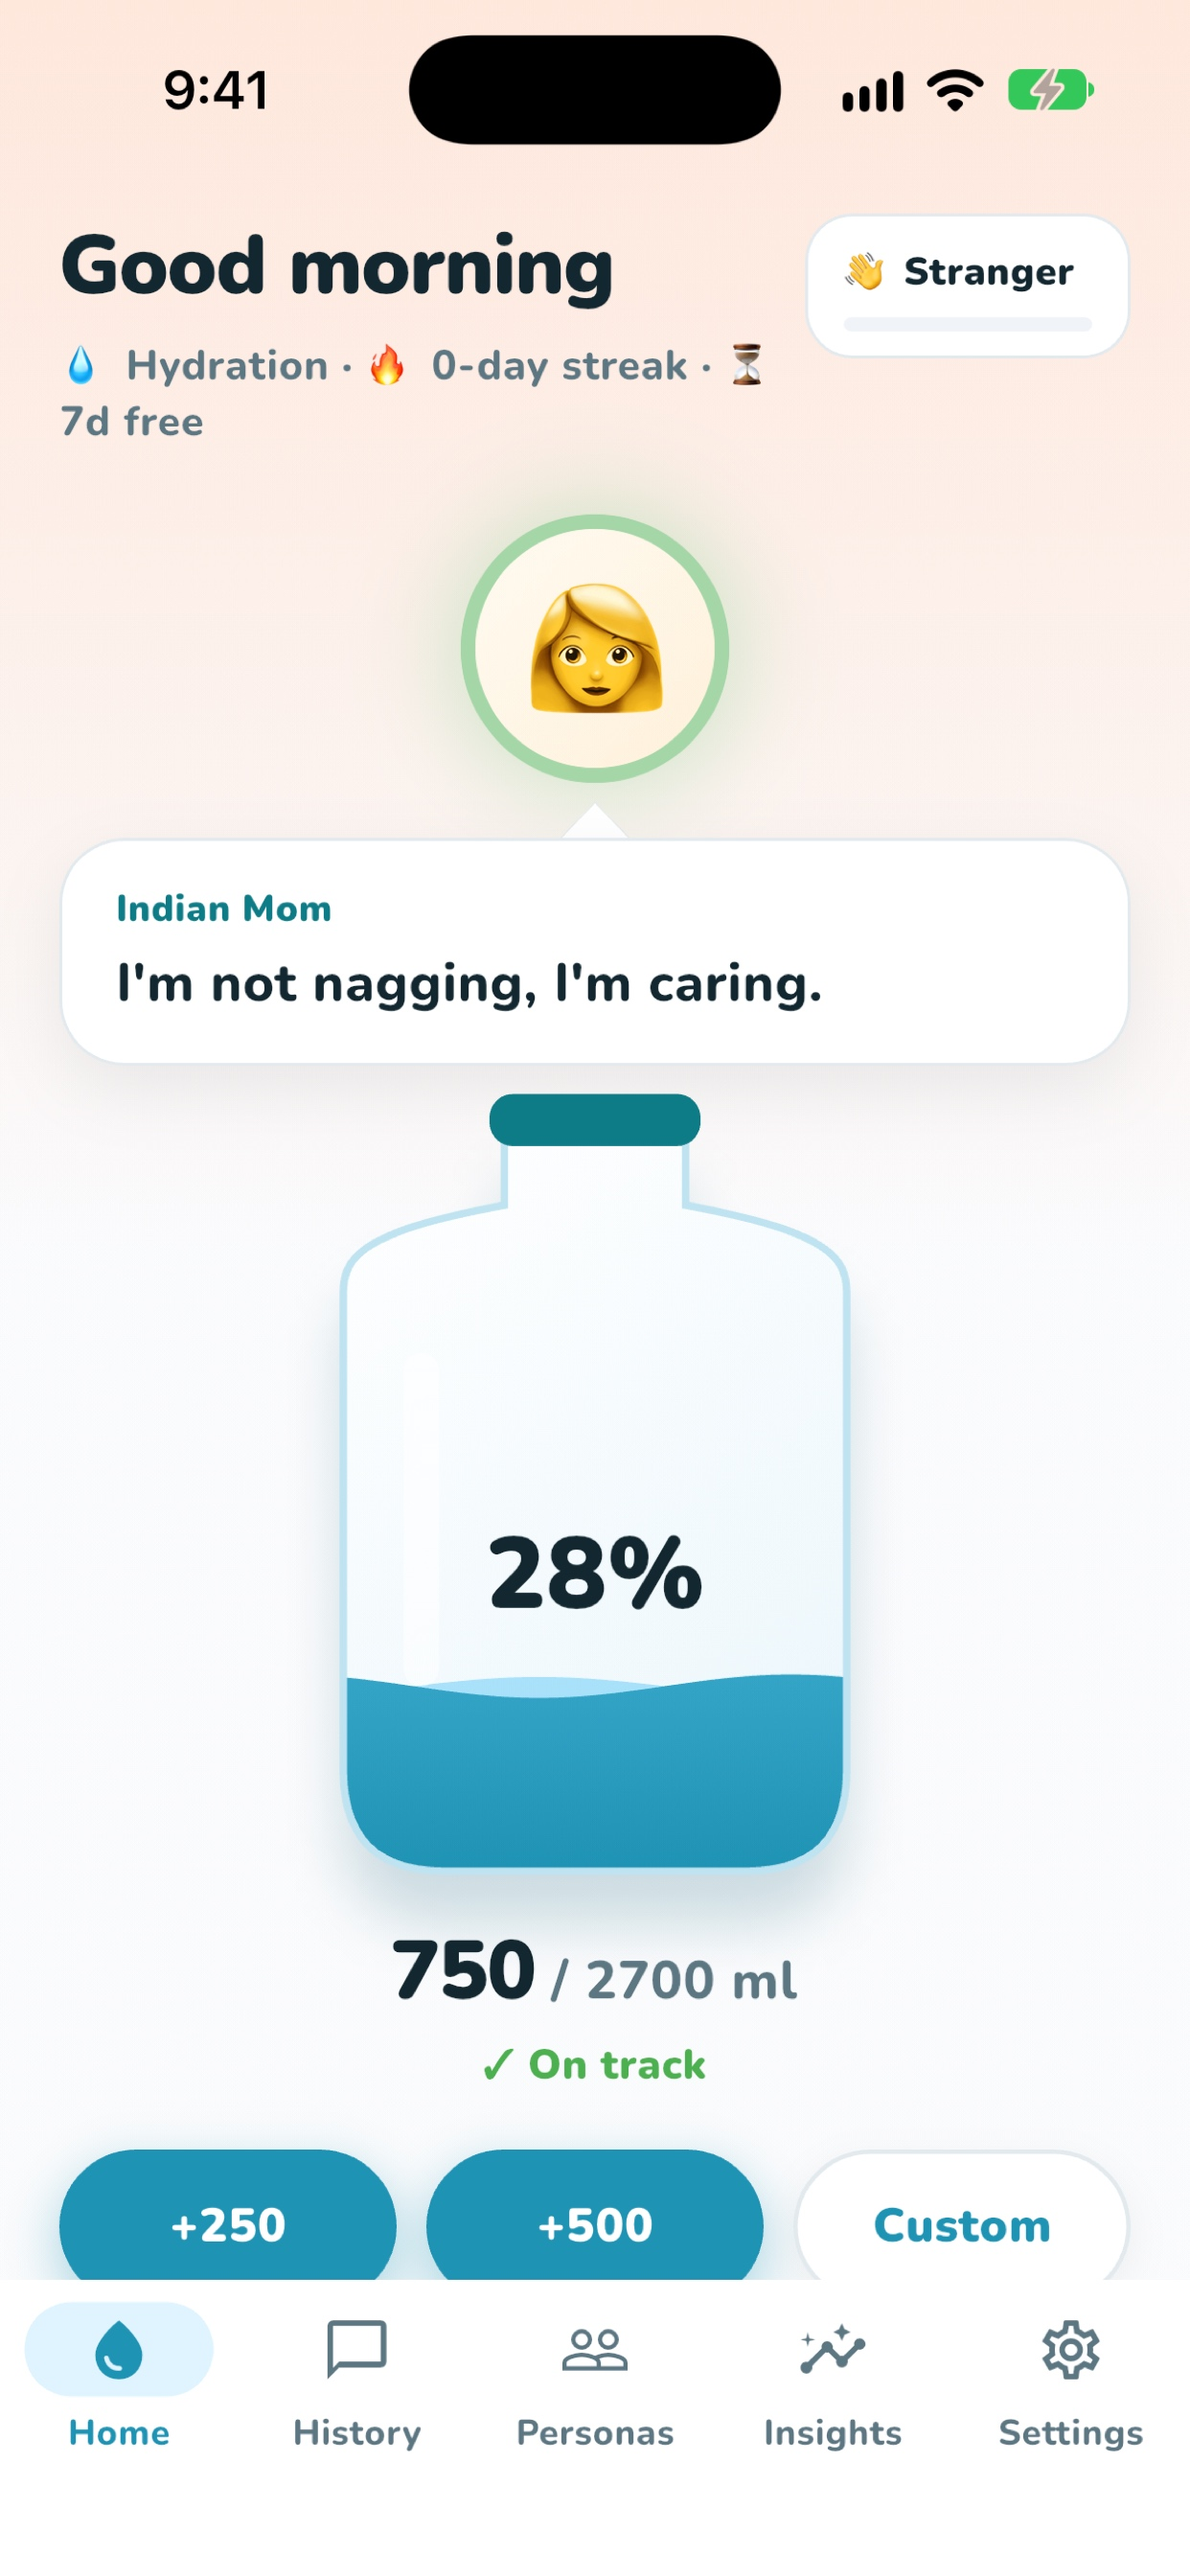
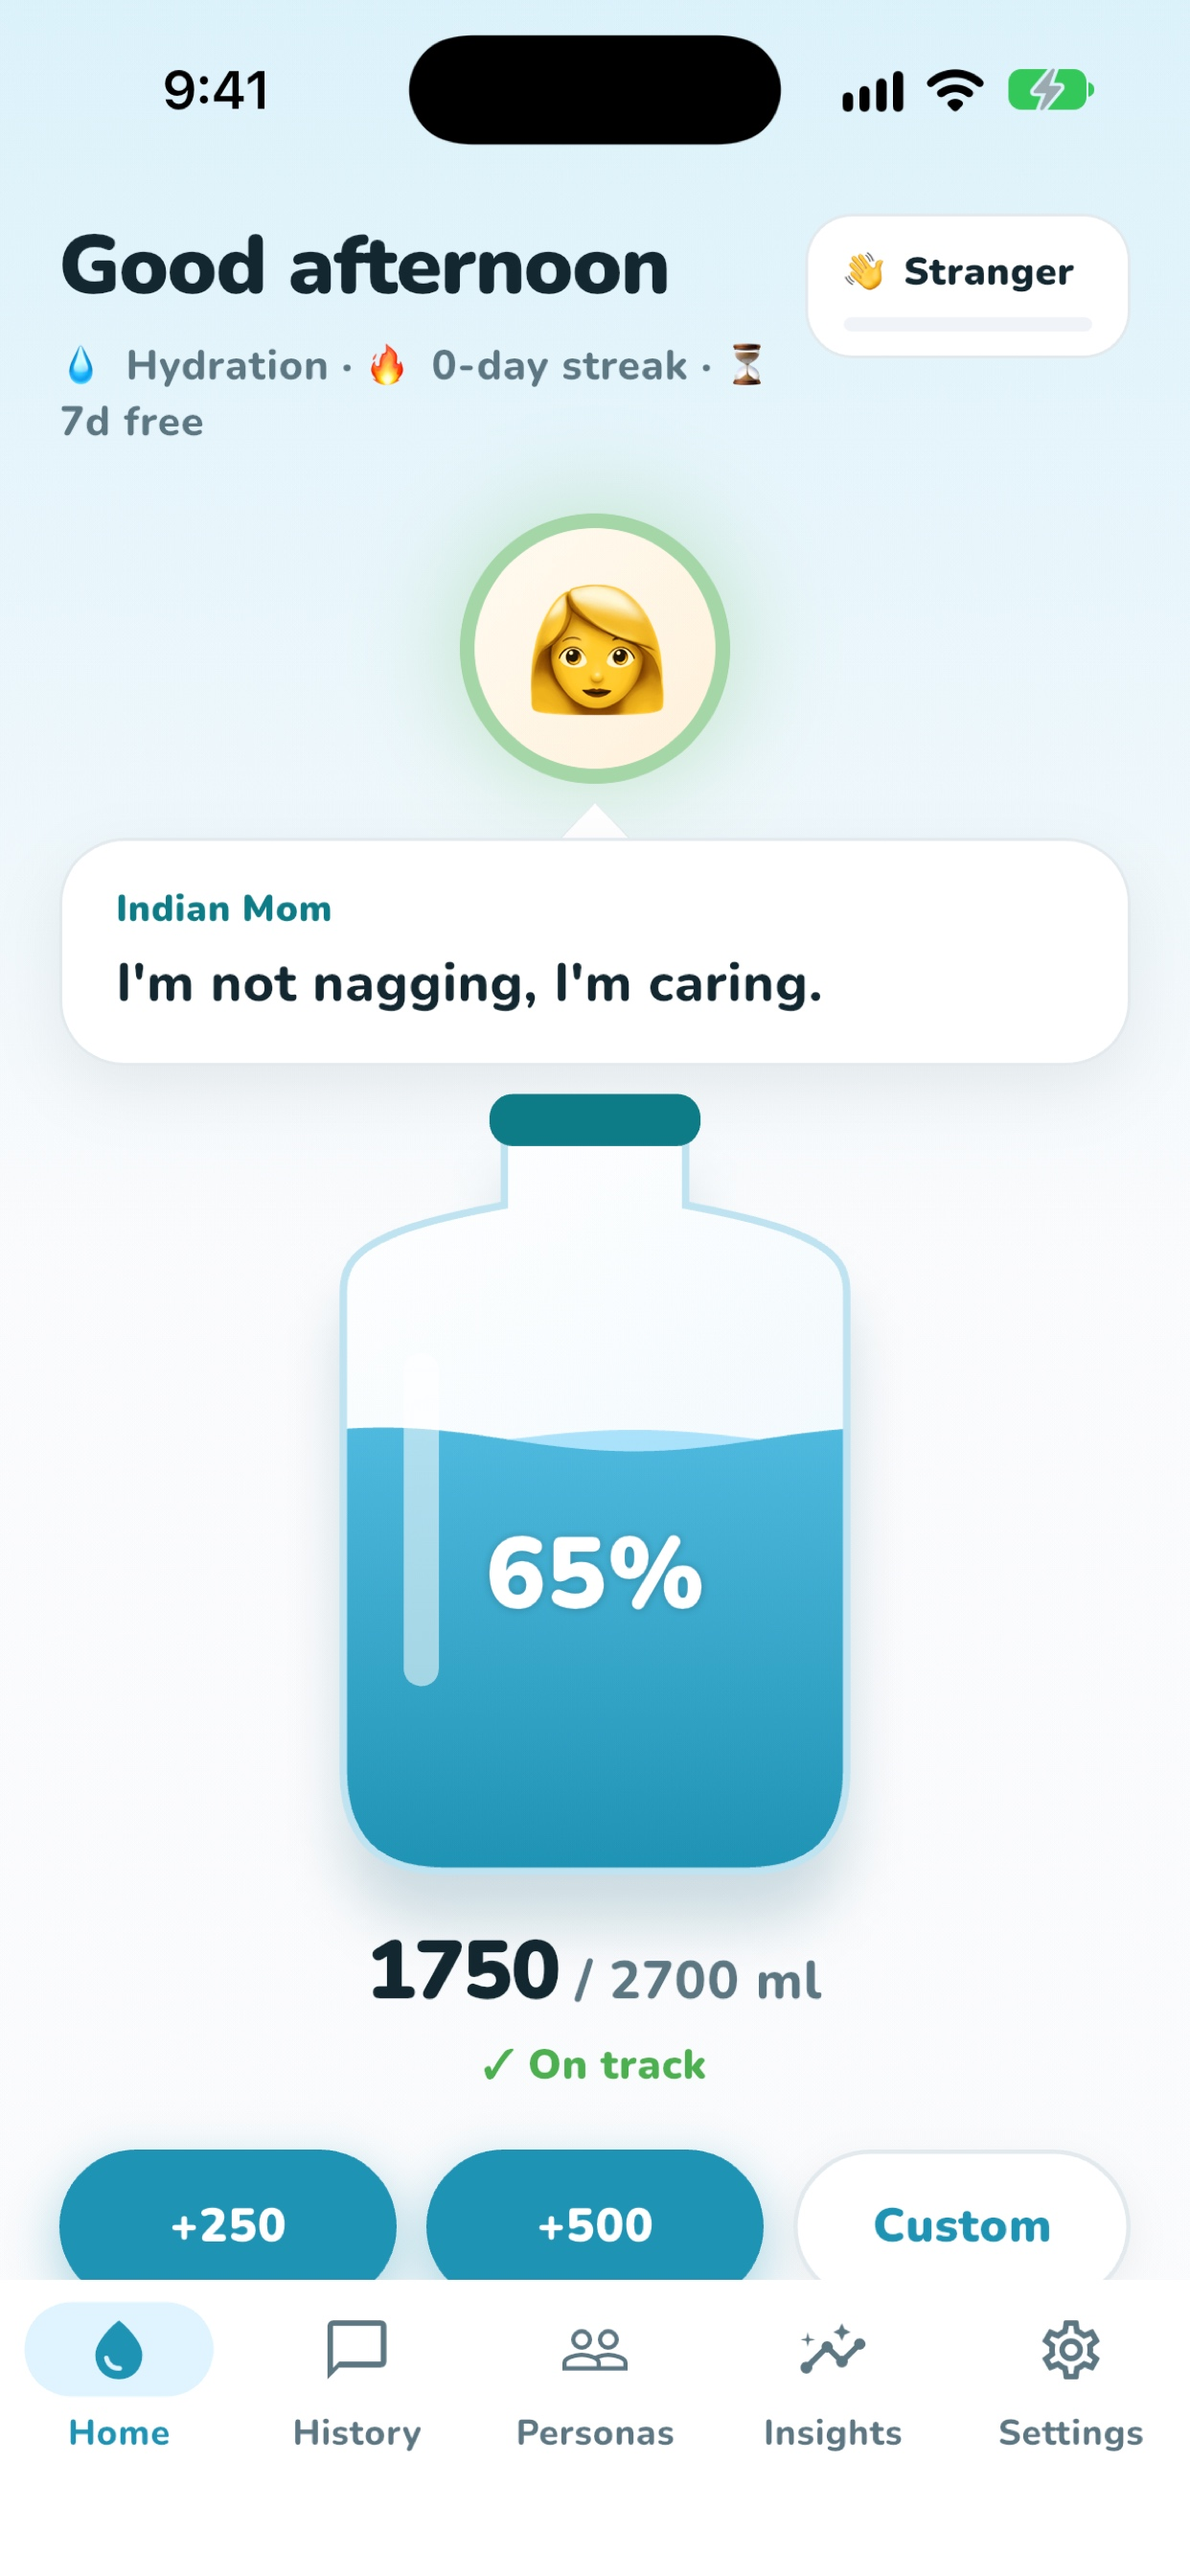
Notes: iOS submitted, TestFlight link, Android build 5

diff --git a/CLAUDE_RESUME.md b/CLAUDE_RESUME.md
@@ -44,3 +44,12 @@ Still need: user's App Review contact info; availability (China?); version page 
 - In the Work Chrome profile, touch only the Nagly app in Play Console.
 - Ask before accepting terms, submitting for review, publishing, or setting Journeys live.
 - Never handle passwords, service-account JSON, or secret keys (only public keys/IDs).
+
+## Status 2026-09-22 evening
+- iOS 1.0 build 5 + 3 IAPs + Nagly Pro group SUBMITTED to App Review (auto-release on approval). Privacy published, not a medical device, 174 countries (no China), Free.
+- TestFlight: external group "Public testers", build 5 waiting beta review, public link https://testflight.apple.com/join/neVfb471
+- OneSignal iOS APNs active (key 9B7V775A4K, topic-specific Production); 3 Journeys live.
+- RevenueCat monetization_mode = "both" (Android ads on for Catvertising; iOS always payments).
+- Android build 5 AAB built (undo-snackbar fix). Play submission 4 (prod build 2 + alpha build 3) still in review; upload build 5 after approval, then Production.
+- Uploads from CLI hit "Failed to Use Accounts"; workaround: `open app/build/ios/archive/Runner.xcarchive` -> Organizer -> Distribute App.
+- Pending: demo video + Devpost (Sep 30), AdMob store link after Play goes public.
